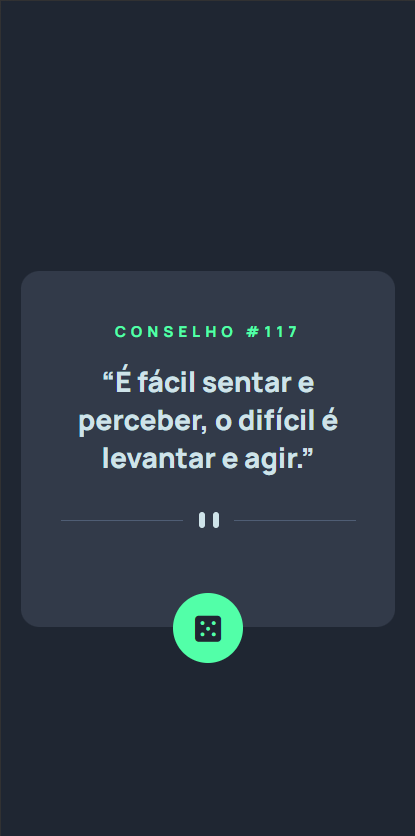
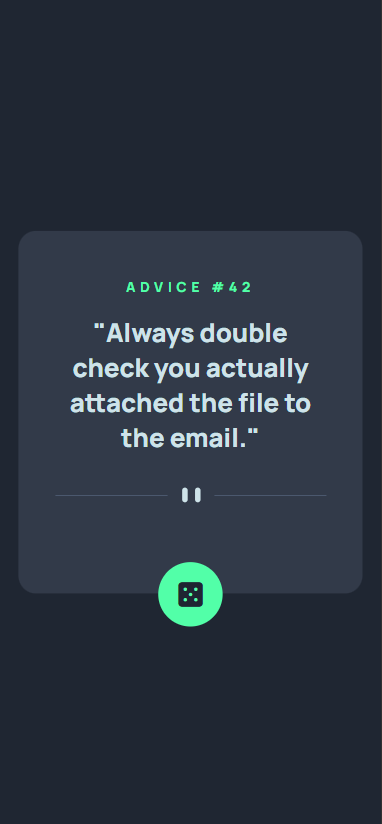
README alterado

Changed region(s): [[0.1728, 0.3337, 0.8351, 0.6371], [0.4031, 0.6675, 0.6047, 0.8192], [0.5471, 0.3337, 0.6623, 0.3641]]

diff --git a/README.md b/README.md
@@ -1,14 +1,50 @@
 # Gerador de conselhos
 
-Esse foi uma exercício realizado no módulo "Exercícios CSS Avançado - Flexbox" do curso Dev Quest - Dev em Dobro 
+A parte em HTML e CSS foi desenvolvida como um exercício no módulo "Exercícios CSS Avançado - Flexbox", enquanto a implementação em JavaScript foi parte do módulo "Exercícios JavaScript Avançado" do curso Dev Quest - Dev em Dobro
 
-#### Dificuldades e aprendizados
+## Table of contents
 
-A única dificuldade que eu tive foi que eu não estava utilizando a propriedade "transform: translateY(80%);" no botão, o que dificultou na hora de posicioná-lo.
+- [Visão geral](#visão-geral)
+  - [Sobre](#sobre)
+  - [Screenshots](#screenshots)
+- [Meu processo](#meu-processo)
+  - [Dificuldades e aprendizados](#dificuldades-e-aprendizados)
+  - [Desenvolvido com](#desenvolvido-com)
+- [Autor](#autor)
 
+## Visão geral
+
+### Sobre
+
+Este site é um gerador de conselhos aleatórios. Toda vez que você clicar no botão com o ícone de dado, ele fornecerá um novo conselho
+
+### Screenshots
 
 #### Design Desktop
-![Design do site](design/design-desktop.png)
+![Design do site](design/desktop-animation.gif)
 
 #### Design Mobile
 ![Design do site](design/design-mobile.png)
+
+## Meu processo
+
+Inicialmente, desenvolvi este exercício utilizando HTML e CSS para testar meus conhecimentos, especialmente em Flexbox. Após me aprofundar em JavaScript, retornei ao projeto para aplicar uma lógica que consumisse a API AdviceSlip, aprimorando a funcionalidade e a interatividade do site
+
+### Dificuldades e aprendizados
+
+A única dificuldade que encontrei durante o desenvolvimento com HTML e CSS foi não ter utilizado a propriedade `transform: translateY(80%)` no botão, o que dificultou seu posicionamento. Na parte de JavaScript, não enfrentei grandes dificuldades, mas aproveitei a oportunidade para aprender a utilizar a propriedade `.innerText`, que eu ainda não havia utilizado antes
+
+### Desenvolvido com
+
+- HTML5 
+- CSS
+- Flexbox
+- Responsive design
+- Javascript
+- API (AdviceSlip)
+
+## Autor
+
+- GitHub - [itsdavss](https://github.com/itsdavss)
+- Meu portfólio - [Davi Oliveira](https://itsdavss.github.io/portfolio-davi/)
+- LinkedIn - [Davi Oliveira dos Santos](https://www.linkedin.com/in/davi-oliveira-dos-santos/)
